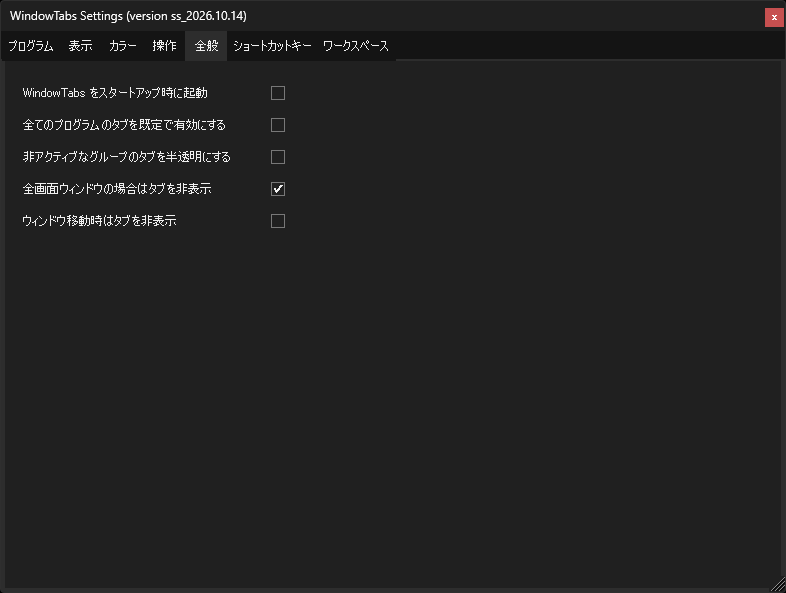
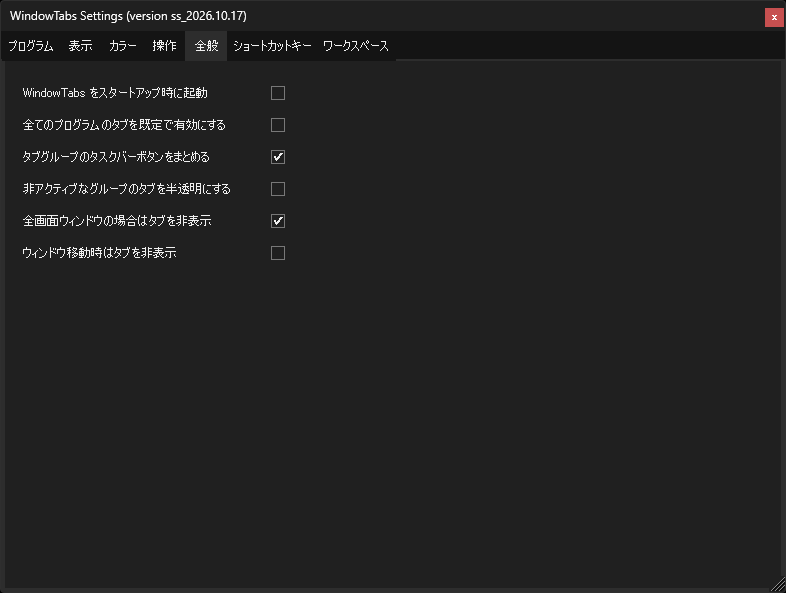
version ss_2026.10.17

diff --git a/version_Japanese.md b/version_Japanese.md
@@ -2,29 +2,24 @@
 
 **Language:** [English](version.md)
 
-## version ss_2026.10.14_next5
-
-- 修正: ss_2026.10.03 から、仮想デスクトップを読めないとき、
-  新しいウィンドウにタブが付かないことがあった。
-  - 仮想デスクトップを一度も切り替えたことのない PC で起きていた。
-  - 別のデスクトップにあると分かっているとき以外は、タブを付けるようにした。
-
-## version ss_2026.10.14_next4
+## version ss_2026.10.17
 
 - タスクバー: タブグループのボタンを 1 つにまとめられるようにした。
-  - 「操作」のページの新しい設定でオンにする（初期値はオフ）。
+  - 「全般」のページの新しい設定でオンにする（初期値はオフ）。
   - すべてのデスクトップに表示する窓も、見ているデスクトップのボタンに入る。
   - グループを離れたとき、設定をオフにしたとき、落ちた後の次の起動で、
     各窓は自分のボタンに戻る。
-
-## version ss_2026.10.14_next3
-
-- Settings\FramelessWindow.json に書いたアプリは、タイトルの無いウィンドウにも
-  タブを付ける。
-- タイトルの無いタブにマウスを移したとき、前のタブの説明が残るのを修正。
+- タイトルなしウィンドウへの対応
+  - Settings\FramelessWindow.json に書いたアプリは、
+    タイトルの無いウィンドウにもタブを付ける。
+  - タイトルの無いタブにマウスを移したとき、前のタブのTooltip説明が残るのを修正。
 - 同梱の設定: virt-viewer.exe の上の余白を小さくした。
 - ウィンドウの出来事を受け取るフック: ウィンドウやタブグループごとに張るのを
   やめ、出来事の種類ごとに 1 つにまとめた。無効化中は外す。
+- 不具合修正: 仮想デスクトップを特定できないとき、ウィンドウにタブが付かないことがあった。
+  - ss_2026.10.03 から、発生
+  - 仮想デスクトップを一度も切り替えたことのない PC で起きていた。
+  - 別のデスクトップにあると分かっているとき以外は、タブを付けるようにした。
 
 ## version ss_2026.10.14
 

diff --git a/version.md b/version.md
@@ -2,30 +2,25 @@
 
 **Language:** [Japanese/日本語](version_Japanese.md)
 
-## version ss_2026.10.14_next5
-
-- Fixed: since ss_2026.10.03, new windows could get no tab when
-  WindowTabs could not read their virtual desktop.
-  - Happened on a PC where the virtual desktop was never switched.
-  - New windows now get a tab unless they are known to be on another
-    desktop.
-
-## version ss_2026.10.14_next4
+## version ss_2026.10.17
 
 - Taskbar: the buttons of a tab group can be combined into one button.
-  - Turned on with a new setting on the Interaction page (off by default).
+  - Turned on with a new setting on the General page (off by default).
   - Windows shown on every desktop join the button of the desktop in view.
   - Each window gets its own button back when it leaves the group, when the
     setting is turned off, and on the next start after a crash.
-
-## version ss_2026.10.14_next3
-
-- Applications named in Settings\FramelessWindow.json get tabs even when
-  their window has no title.
-- Fixed the tooltip of the previous tab staying over a tab without a title.
+- Windows without a title
+  - Applications named in Settings\FramelessWindow.json get tabs even when
+    their window has no title.
+  - Fixed the tooltip of the previous tab staying over a tab without a title.
 - Shipped settings: smaller top inset for virt-viewer.exe.
 - Window event hooks: one per kind of event instead of one per window and
   per tab group, and none while WindowTabs is disabled.
+- Fixed: windows could get no tab when their virtual desktop could not be
+  identified.
+  - Since ss_2026.10.03.
+  - Happened on a PC where the virtual desktop was never switched.
+  - Windows now get a tab unless they are known to be on another desktop.
 
 ## version ss_2026.10.14
 

diff --git a/README_Japanese.md b/README_Japanese.md
@@ -115,7 +115,7 @@ leafOfTree 氏も様々な改良を加えたフォークを作成しています
 
 ## バージョン
 
-最新のバージョン: **ss_2026.10.14_next5**
+最新のバージョン: **ss_2026.10.17**
 
 詳細は [version_Japanese.md](version_Japanese.md) を参照してください。
 
@@ -413,6 +413,7 @@ leafOfTree 氏も様々な改良を加えたフォークを作成しています
 ### 全般タブ
 
 - 起動時に実行するか、全てのプログラムで既定でタブを有効にするかを設定できます。
+- **タブグループのタスクバーボタンをまとめる**: ウィンドウごとのタスクバーボタンを、タブグループごとに 1 つにまとめます (既定はオフ)。全てのデスクトップに表示するウィンドウは、表示中のデスクトップのボタンに入ります。
 - **非アクティブなグループのタブを半透明にする**: 操作していないタブグループのタブを、透明度 50% で表示します。マウスを重ねている間は元の濃さに戻ります。別の仮想デスクトップにあるウィンドウのタブも透明度 50% なので、両方が重なるタブは、さらに薄く (透明度 75%) 表示されます。
 - 全画面ウィンドウのタブ、ウィンドウ移動中のタブを隠すかを選べます。
 

diff --git a/README.md b/README.md
@@ -115,7 +115,7 @@ Mr./Ms. leafOfTree also created a fork with various improvements:
 
 ## Version
 
-Latest version: **ss_2026.10.14_next5**
+Latest version: **ss_2026.10.17**
 
 See [version.md](version.md) for details.
 
@@ -413,6 +413,7 @@ If you create a nice color theme, please share it at [GitHub Issues](https://git
 ### General Tab
 
 - Choose whether to run at startup and enable tabs for all programs by default.
+- **Combine taskbar buttons for tab groups**: each tab group gets one taskbar button instead of one per window (off by default). Windows shown on every desktop join the button of the desktop in view.
 - **Fade out tabs on inactive windows**: the tabs of a tab group you are not working in are drawn 50% transparent, and return to full strength while the mouse is over them. The tab of a window on another virtual desktop is 50% transparent as well, so a tab where both apply is fainter still (75% transparent).
 - Choose whether to hide tabs for full-screen windows and while a window is moving.
 
